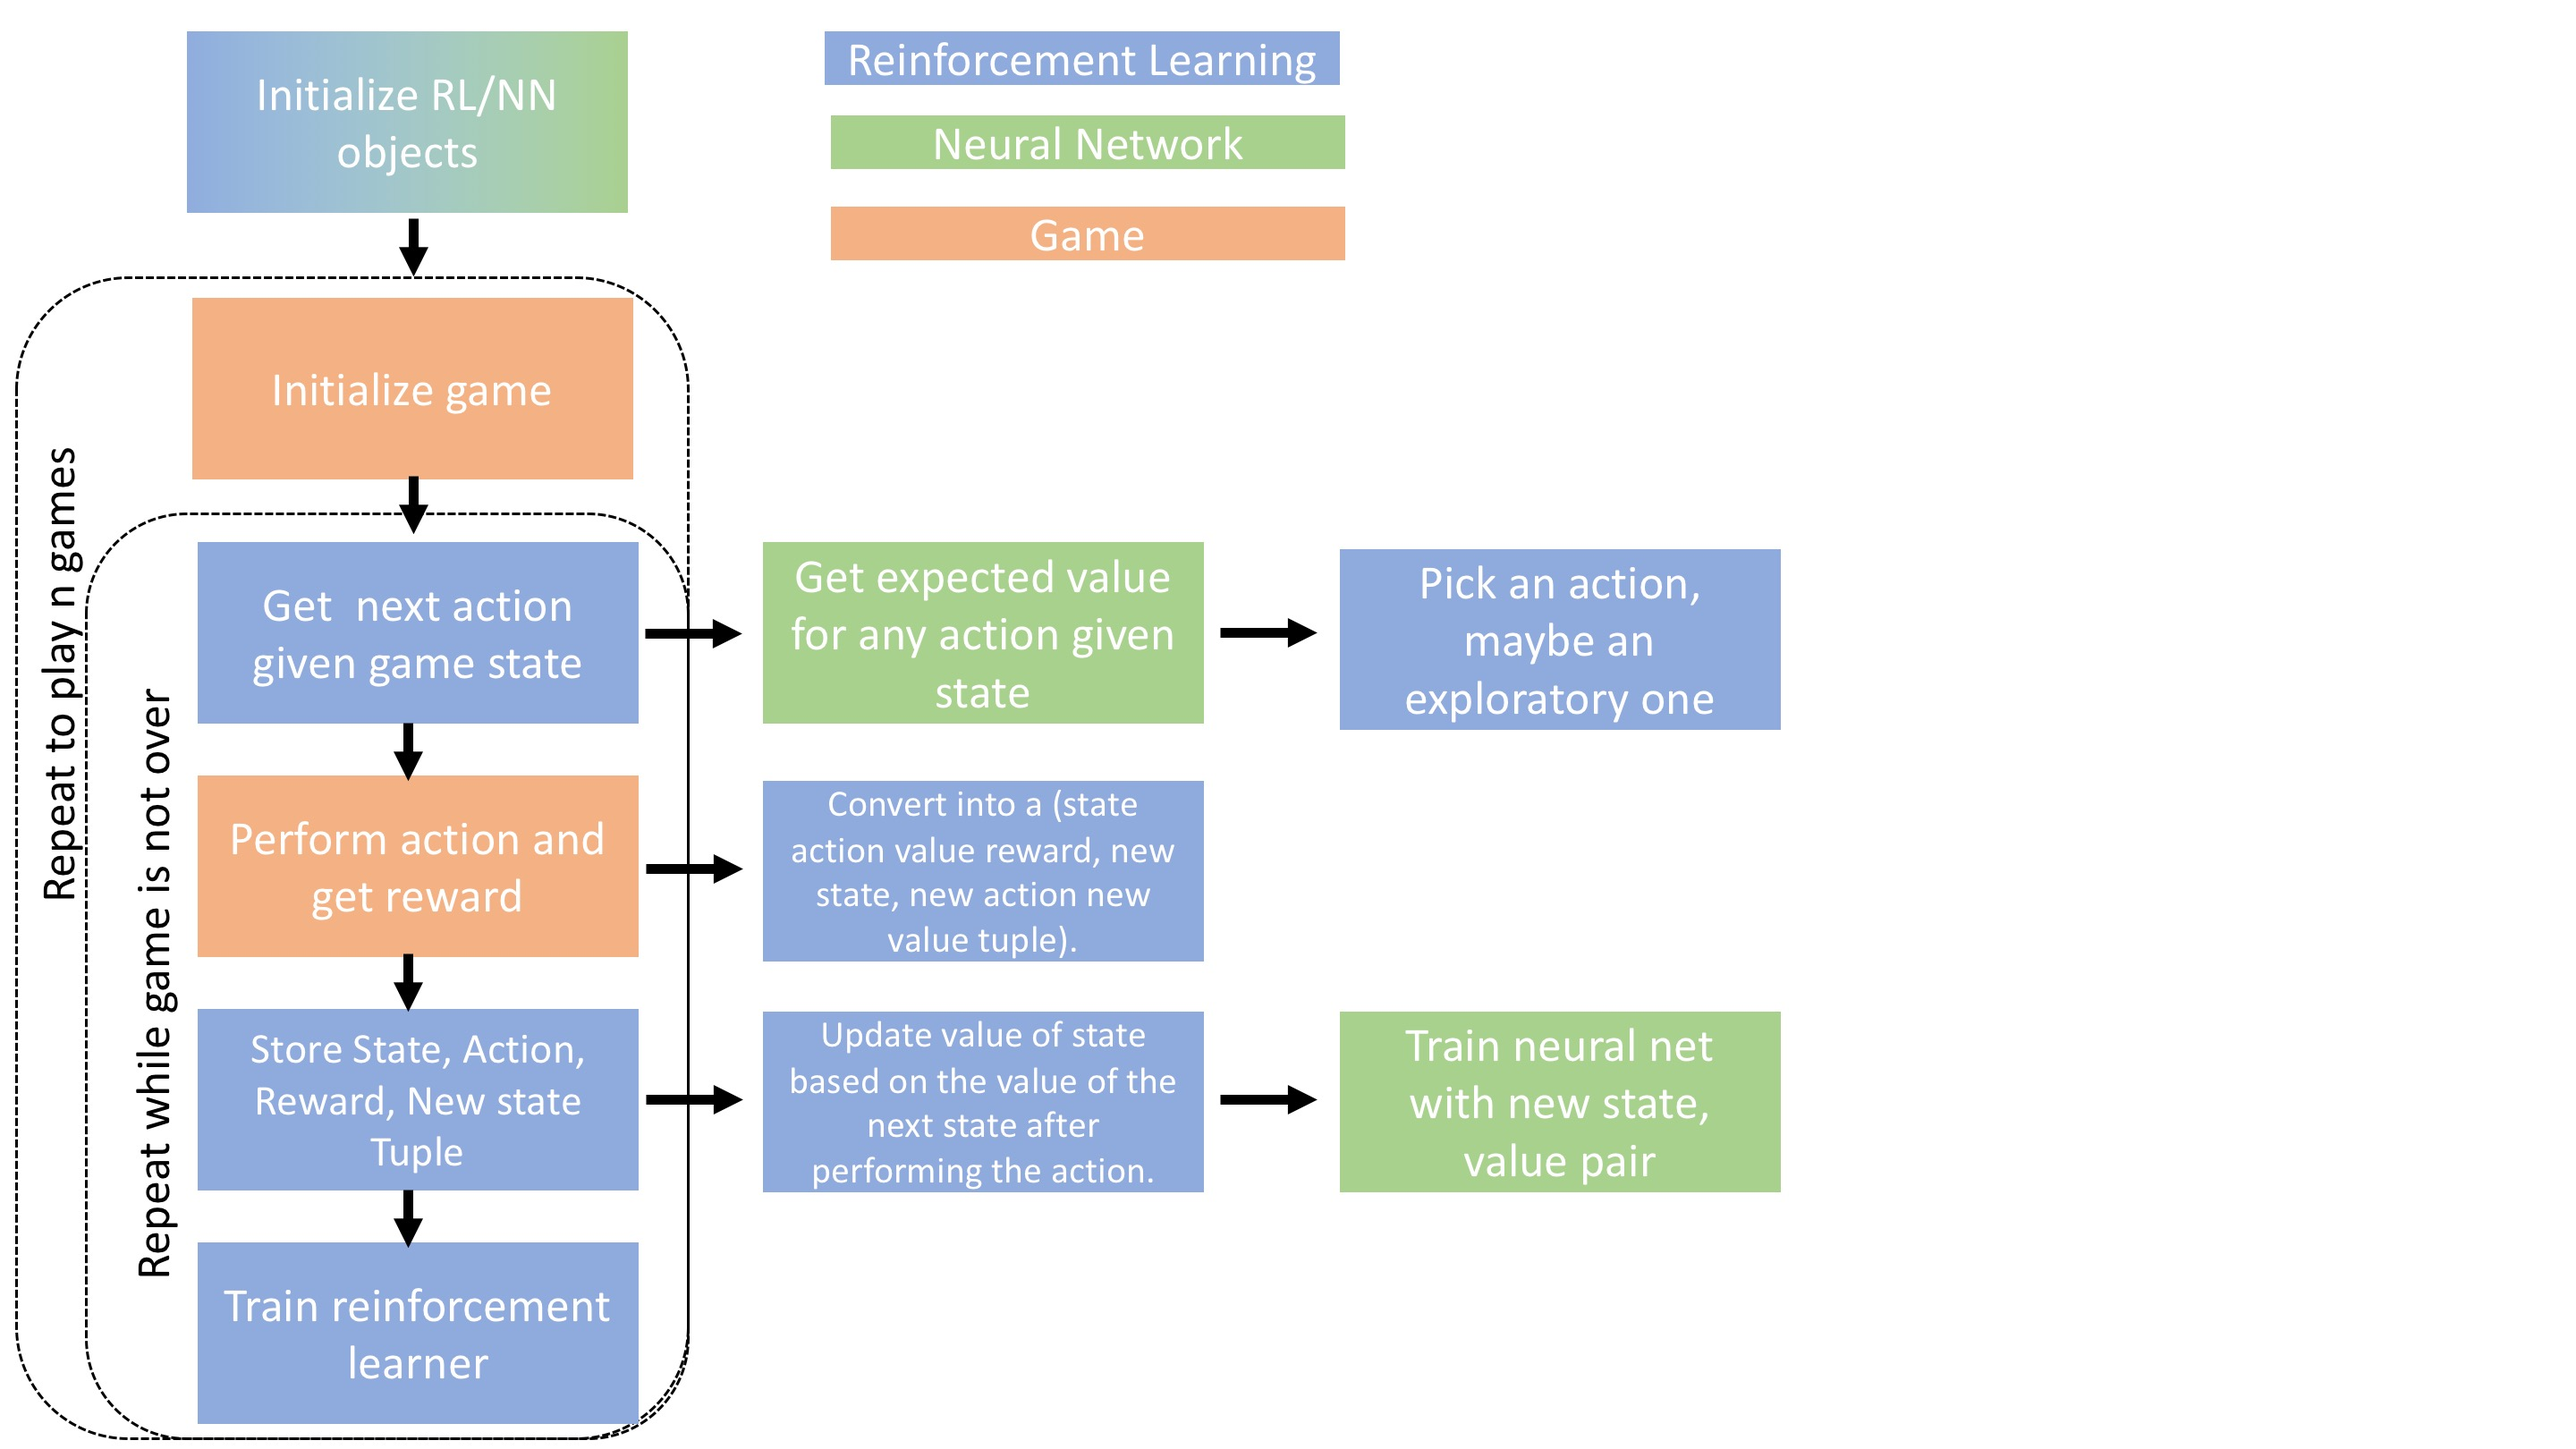
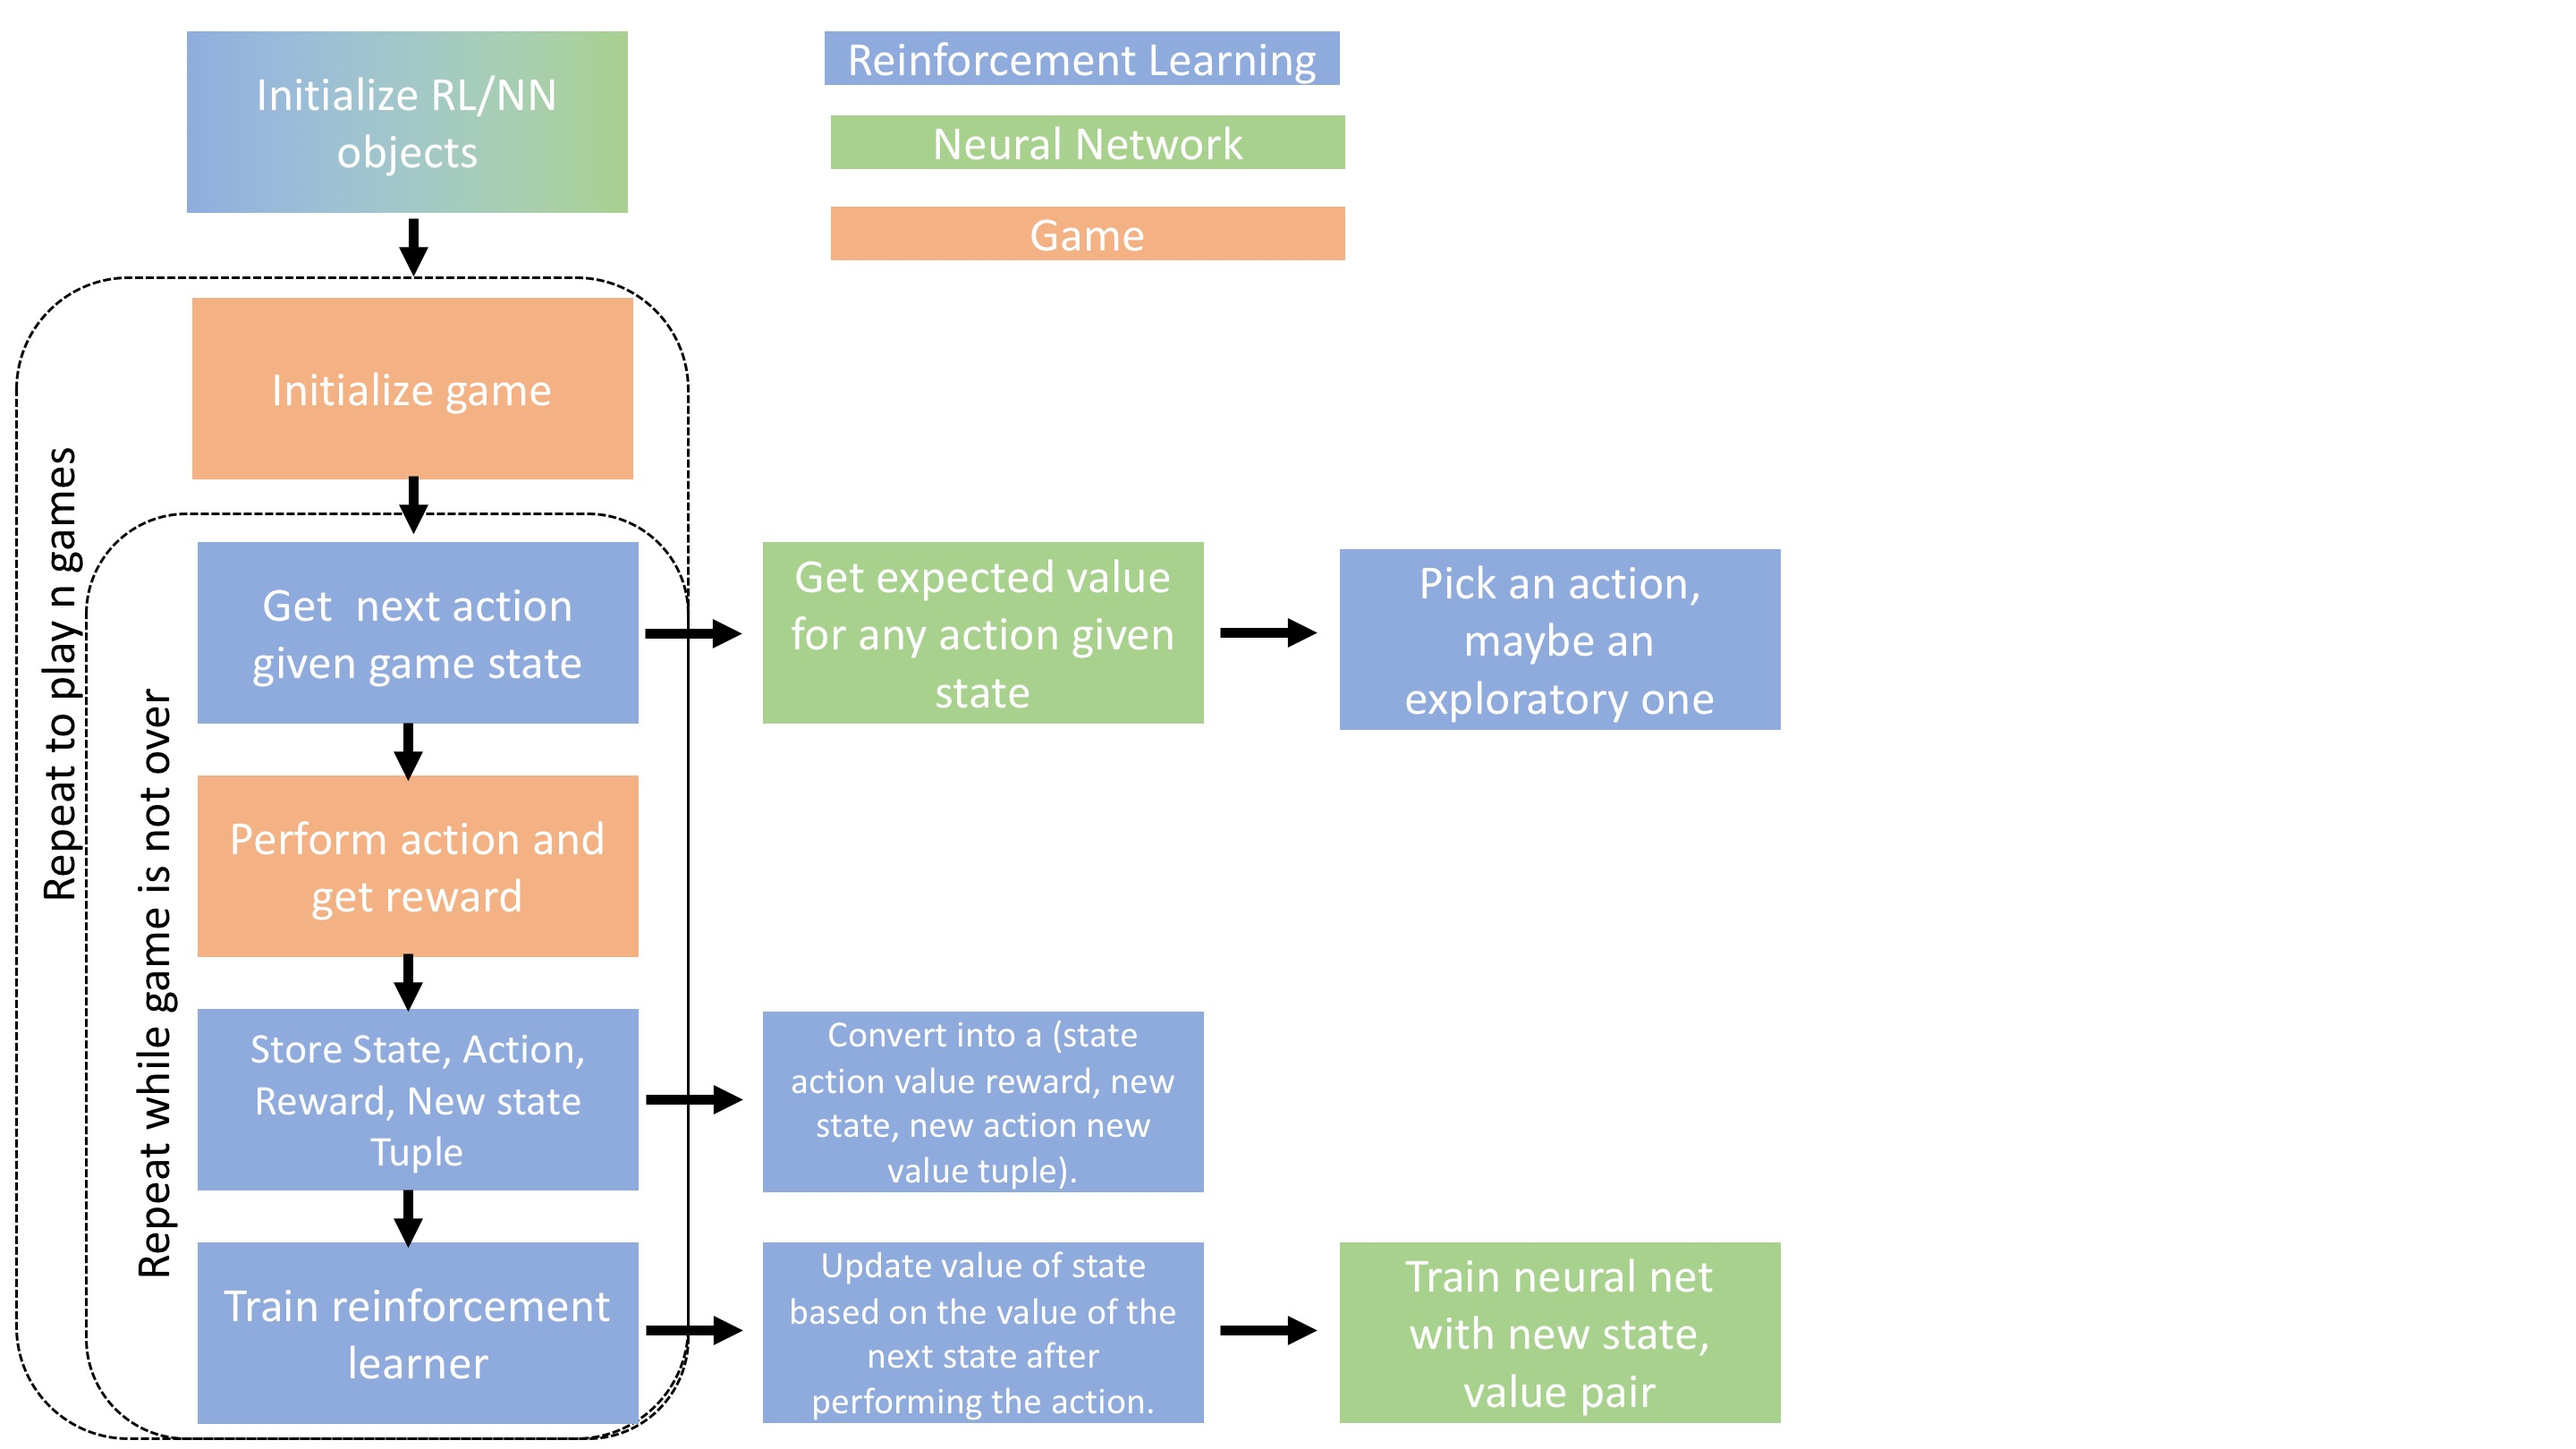
spell check and a fixed system diagram

Changed region(s): [[0.25, 0.679, 0.7188, 0.9877], [0.25, 0.5247, 0.4688, 0.679]]

diff --git a/finalWriteup.html b/finalWriteup.html
@@ -31,7 +31,7 @@ For our final project for our data science course, we were interested in learnin
 
 ### What is Reinforcement Learning?
 
-In most of the machine learning we’ve done in this course up until now, we were trying to learn a model that would allow us to predict the correct output given a set of previously collected inputs. While this is great if you already have a lot of data collected, this wasn’t the case for us. Since we were trying to teach a computer how to do something, in our case play a game, we didn’t have a dataset readily collected. As a result, we had two options. First, we could collect a dataset of us, or other people, playing a game, and teach the computer how to play a game by learning how we played the game. Our other option, reinforcement learning, was to let a computer teach itself how to play a game by seeing which actions have positive results and which have negative consequences. For a more in-depth explanation of a simple implementation of an example of reinforcement learning, please take a look at our [first blog post!](http://jacobkingery.github.io/AgarLearning/blogPost1.html)
+In most of the machine learning we’ve done in this course up until now, we were trying to learn a model that would allow us to predict the correct output given a set of previously collected inputs. While this is great if you already have a lot of data collected, this wasn't the case for us. Since we were trying to teach a computer how to do something, in our case play a game, we didn't have a dataset readily collected. As a result, we had two options. First, we could collect a dataset of us, or other people, playing a game, and teach the computer how to play a game by learning how we played the game. Our other option, reinforcement learning, was to let a computer teach itself how to play a game by seeing which actions have positive results and which have negative consequences. For a more in-depth explanation of a simple implementation of an example of reinforcement learning, please take a look at our [first blog post!](http://jacobkingery.github.io/AgarLearning/blogPost1.html)
 
 #### Some Important Vocabulary
 
@@ -54,7 +54,7 @@ For this project, we started out trying to create a bot for the online game [aga
 
 **Reinforcement learning in a continuous space is difficult.** Since this game is played on pretty much a continuous area the state space is continuous, rather than being played on a grid. This means that there is a very large state space. What was more of a problem, though, was the action space was also continuous. In [agar.io](agar.io), players control their cells using the mouse, and the bot moves in the direction of the mouse. This means that in the case of our learning bot, an action would effectively be setting the mouse position of the "player" controlling the bot. A continuous action space is not something that is a solved problem in the reinforcement learning field, so we didn't think it was appropriately scoped project, for our first adventure with reinforcement learning.
 
-**It was hard to see whether the bot was getting better.**  Although we had started to implement some reinforcement learning algorithms, we found that we had a lot of trouble figuring out if the bot was learning, or whether the bot just happened to be getting lucky doing a random walk. (A random walk is the bot moving across the board in a random way.) Solving this problem was particularly difficult because the ogar implementation interfaces with the [agar.io](agar.io) frontend, so we would basically have had to build our own frontend to get around this lack of information about how well our bot was learning.  
+**It was hard to see whether the bot was getting better.**  Although we had started to implement some reinforcement learning algorithms, we found that we had a lot of trouble figuring out if the bot was learning, or whether the bot just happened to be getting lucky doing a random walk. (A random walk is the bot moving across the board in a random way.) Solving this problem was particularly difficult because the ogar implementation interfaces with the [agar.io](agar.io) front-end, so we would basically have had to build our own front-end to get around this lack of information about how well our bot was learning.  
 
 Although we could have certainly figured out ways to deal with these challenges, we were more interested in exploring how reinforcement learning and neural networks can be used together than we were in solving the particular problem of building the world's best [agar.io](agar.io) bot. As a result, we decided to simplify our game a little.
 
@@ -113,6 +113,20 @@ To combine the game, our reinforcement learning algorithm, and the neural networ
 ![](images/System_Diagram.jpg "")
 
 In this system diagram, we have color coded where in our code each part happens. The left-most column are all the steps that we go through in our main loop. For steps with additional rectangles to the right, these rectangles provide more information based on how we're going about performing those steps. 
+
+When we run our main loop, we first initialize our reinforcement learning and neural network objects. Then we initialize our game. 
+
+Next we get the action we should perform from the reinforcement learning algorithm given our game state. This is done by getting all the expected values of each action given the stat from our neural network. Then, the reinforcement learning algorithm picks and action. In some cases, this will be the best action with the highest predicted value, but in other cases, we might be exploratory and choose an action that we don't believe is quite as valuable to see what happens. 
+
+After we perform the action, we see what the reward of performing that action was. 
+
+Next we store the state action reward and new state tuple. Using our reinforcement learning algorithm, we convert this into a state, action, value, retard, new state, new action, predicted value tuple, and store this. 
+
+Finally we train the reinforcement learning algorithm, by updating the value of our state using the following equation that we described in the reinforcement learning section:
+
+$$Q_{t+1}(s_t,a_t) = Q_t(s_t, a_t) + \alpha_t(s_t,a_t)\times (R_{t+1} + \gamma \times max(Q_t(s_t+1,a)) - Q_t(s_t, a_t))$$
+
+Then, we pass this value into our neural net as another example of what the value function ought to output and train the neural network again. 
 
 *To see how we've actually written the code to perform each of these steps, please consult GridLearning/mainLoop.py, GridLearning/game.py, GridLearning/rl.py, or GridLearning/nn.py.*
 
